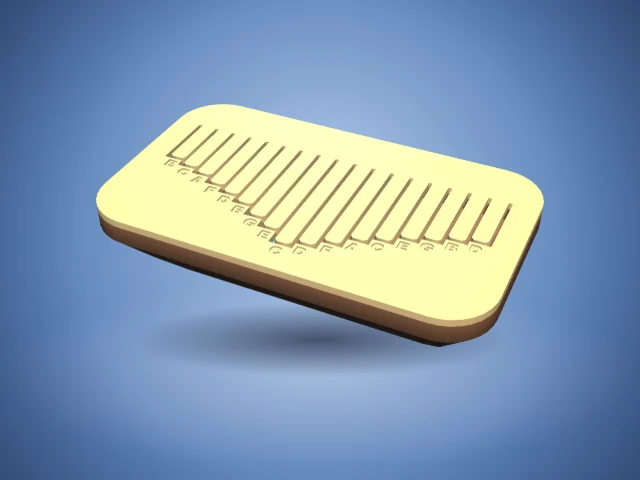
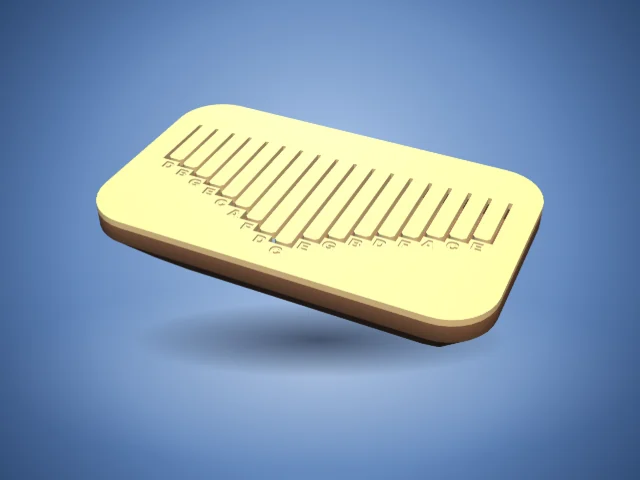
Kalimba Maker: match the traditional tine order (lowest note in the middle, 2nd lowest to the right)
Claude-Session: https://claude.ai/code/session_01CWSRf57G1Mt1VhbhwUGxwj

Changed region(s): [[0.4375, 0.4688, 0.7812, 0.5312], [0.25, 0.3125, 0.4375, 0.5]]

diff --git a/programs/kalimba-maker.html b/programs/kalimba-maker.html
@@ -215,14 +215,15 @@
           L = 1000 * Math.sqrt(0.16155 * (p.thick / 1000) * c / f);
           notes.push({ name: NAMES[midi % 12], oct: Math.floor(midi / 12) - 1, f: f, L: Math.max(MIN_TINE, L) });
         }
-        var pos = new Array(n), mid = Math.floor((n - 1) / 2), j;
+        var pos = new Array(n), mid = Math.floor(n / 2), j;
         if (Math.round(p.layout) === 1) {
           for (k = 0; k < n; k++) pos[k] = notes[k];
         } else {
-          // The traditional layout: lowest note in the middle, then alternate right and left going up.
+          // The traditional layout: lowest note in the middle, then alternate going up: the 2nd, 4th... lowest notes to the
+          // right and the 3rd, 5th... to the left (C major: D6 B5 G5 E5 C5 A4 F4 D4 C4 E4 G4 B4 D5 F5 A5 C6 E6).
           pos[mid] = notes[0];
-          for (j = 1; j <= n - 1 - mid; j++) pos[mid + j] = notes[2 * j - 1];
-          for (j = 1; j <= mid; j++) pos[mid - j] = notes[2 * j];
+          for (j = 1; j <= mid; j++) pos[mid - j] = notes[2 * j - 1];
+          for (j = 1; j <= n - 1 - mid; j++) pos[mid + j] = notes[2 * j];
         }
         return pos;
       }

diff --git a/docs/kalimba-maker.md b/docs/kalimba-maker.md
@@ -18,7 +18,7 @@ A thumb piano, `programs/kalimba-maker.html`, in the Toys & Games group. The tin
 
 A flat tine of thickness `t` and free length `L` rings at `f = 0.16155 * t * c / L^2` (Euler-Bernoulli cantilever, first mode), with `c = sqrt(E / density)`. The page uses E = 3.0 GPa and density 1200 kg/m3 for printed PLA along the layers (`PLA_C` = 1581 m/s), scaled by the **Material stiffness** slider (L grows with E^(1/4); pitch with E^(1/2), so a tine that prints a semitone flat needs the slider about 12 percent lower). That slider is the calibration: print, tap the longest tine against a tuner app, adjust, reprint. Tine length is clamped to 12 mm.
 
-Order: the traditional layout puts the lowest note in the middle and alternates right and left going up (note k goes to the right when k is odd, left when even); "Low to high" puts them in order left to right. Scales are major, natural minor, major and minor pentatonic and chromatic, from any key and a start octave.
+Order: the traditional layout puts the lowest note in the middle and alternates right and left going up (the 2nd, 4th, 6th... lowest notes go to the right and the 3rd, 5th, 7th... to the left, as on a C major 17-key: D6 B5 G5 E5 C5 A4 F4 D4 C4 E4 G4 B4 D5 F5 A5 C6 E6); "Low to high" puts them in order left to right. Scales are major, natural minor, major and minor pentatonic and chromatic, from any key and a start octave.
 
 Click the board in the Parametric tab to hear the nearest tine (`onPick`, Web Audio, generated in the browser): a sine at the ideal pitch plus a faint, short second mode at 6.27 times the pitch. It plays the formula's note, not the printed one.
 
